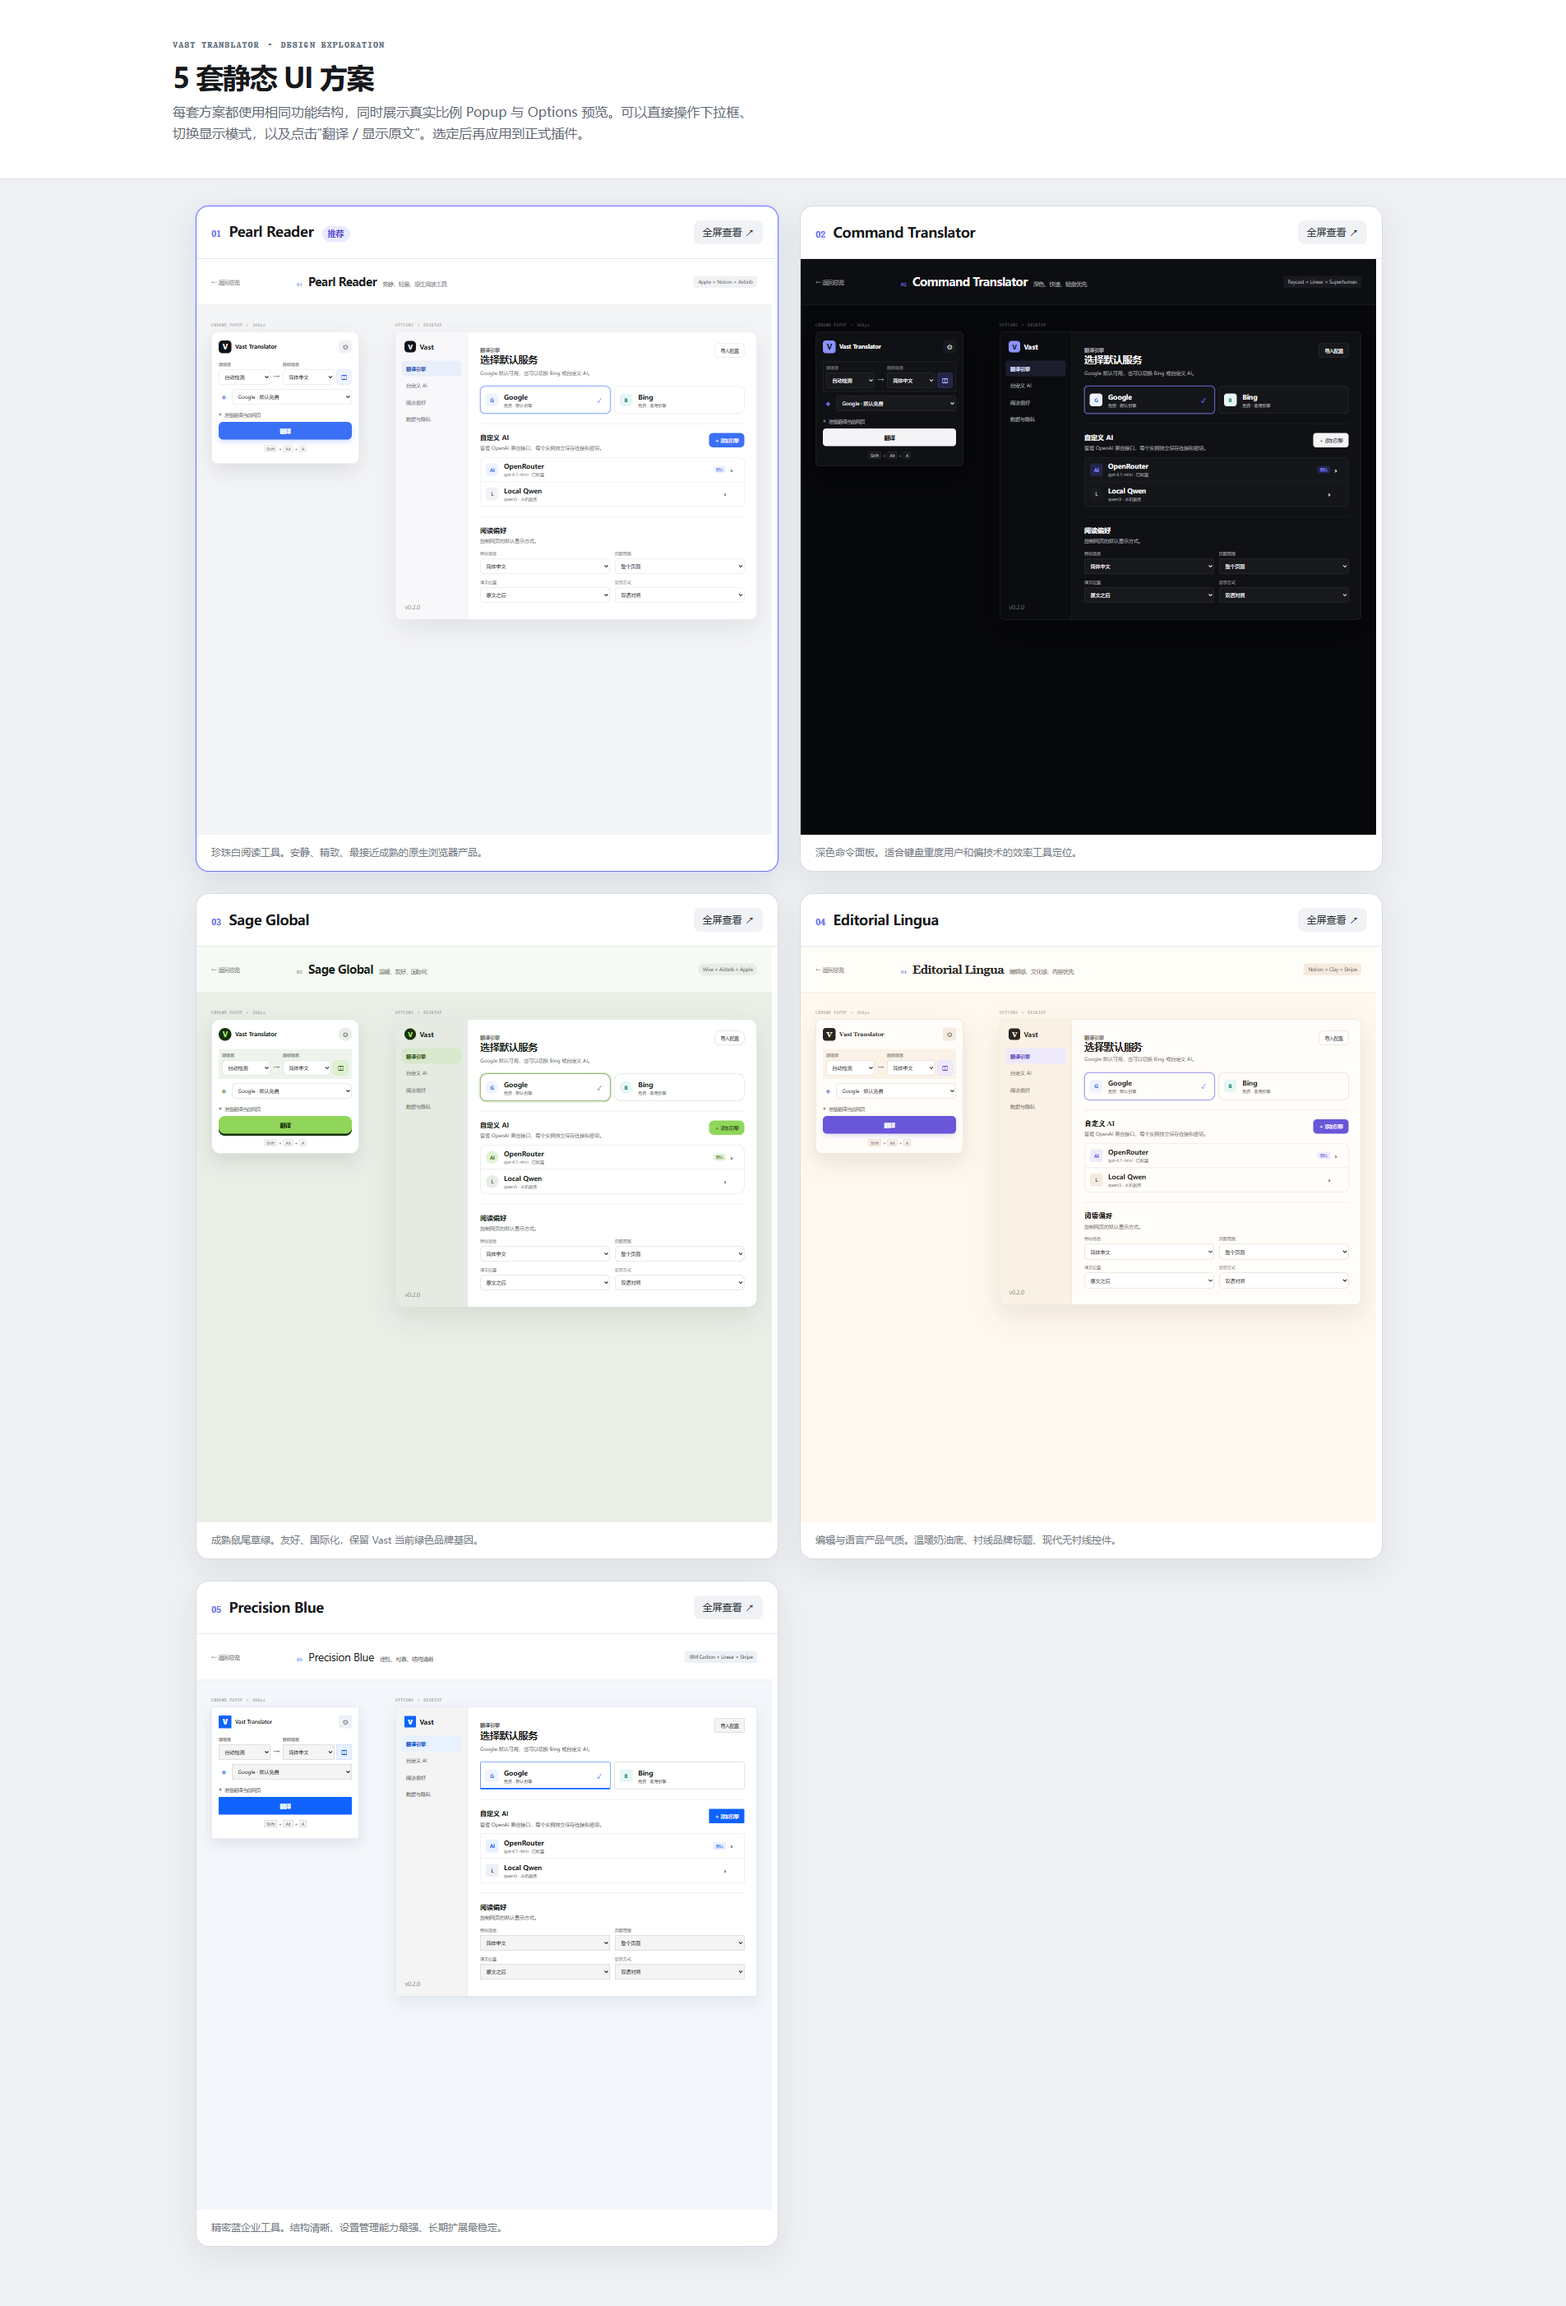
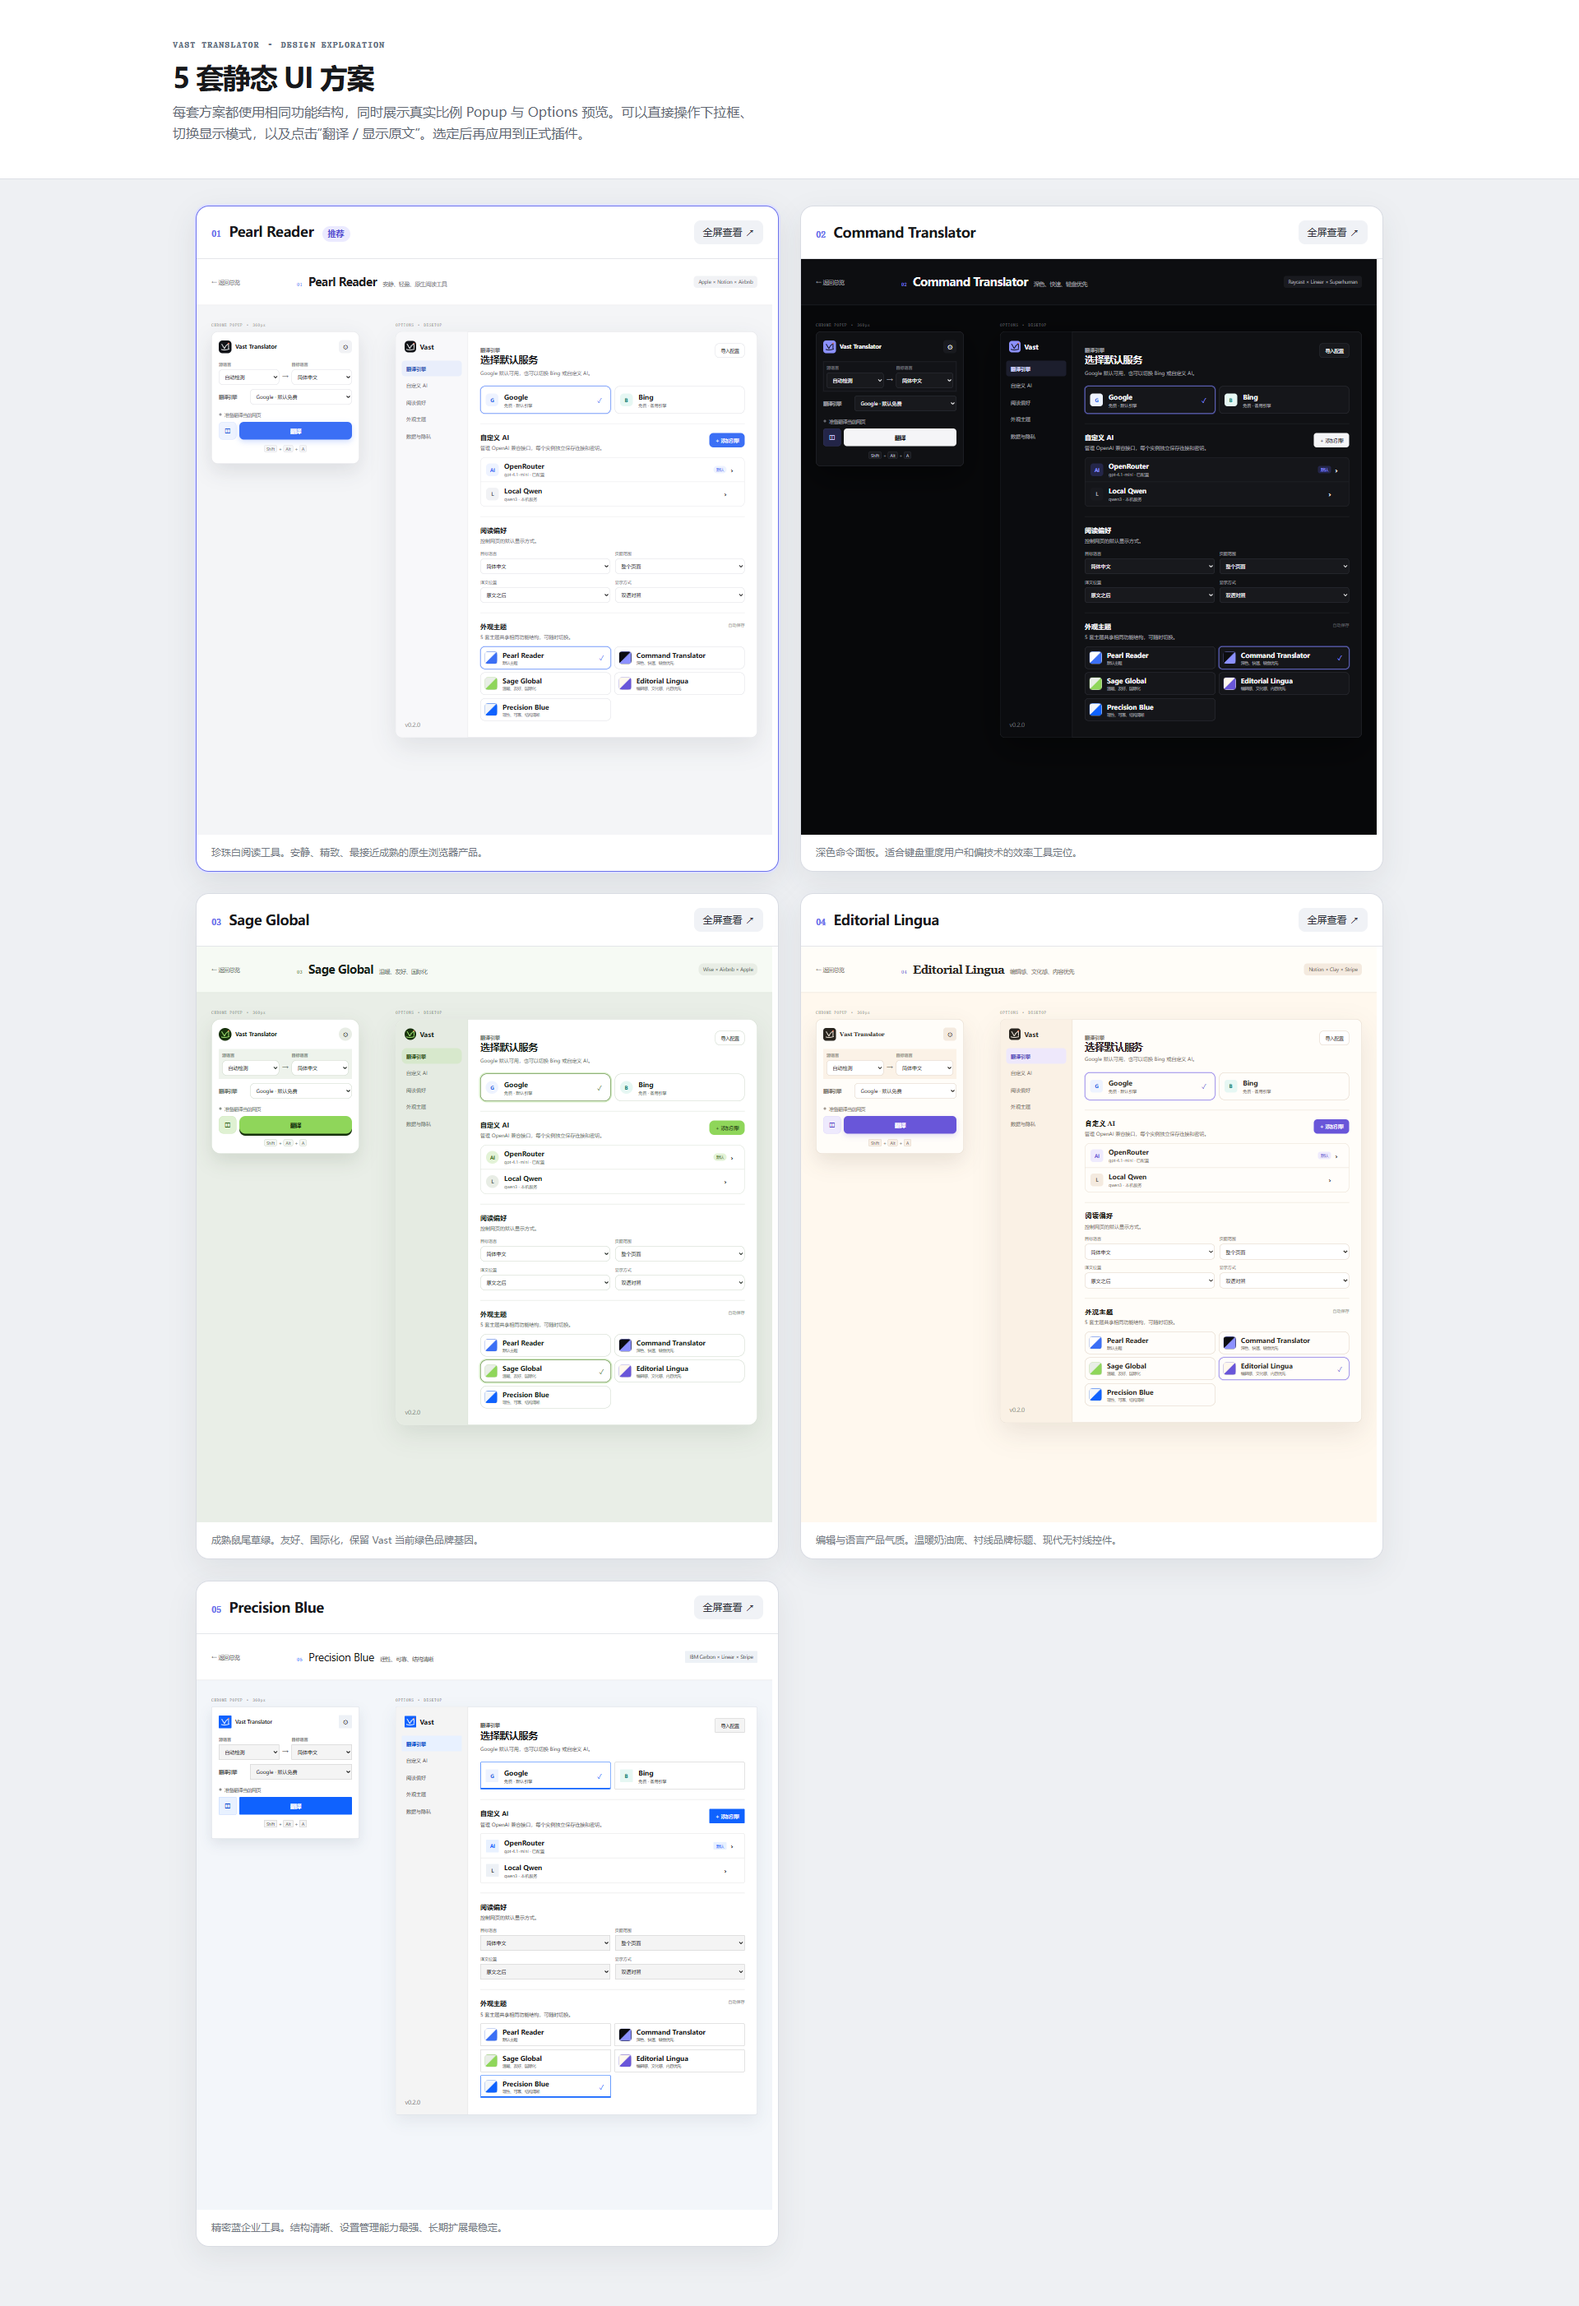
docs: refine theme previews with VastNext branding

diff --git a/design-previews/shared.css b/design-previews/shared.css
@@ -20,12 +20,15 @@ button:focus-visible, select:focus-visible, a:focus-visible { outline: 3px solid
 .translator-popup { width: 360px; min-height: 322px; padding: 17px; border: 1px solid var(--panel-line); border-radius: var(--radius-panel); background: var(--panel); box-shadow: var(--panel-shadow); }
 .popup-head { display: flex; align-items: center; justify-content: space-between; min-height: 38px; margin-bottom: 17px; }
 .brand, .options-brand { display: flex; align-items: center; gap: 9px; }
-.brand-icon { display: grid; place-items: center; width: 31px; height: 31px; border-radius: var(--radius-icon); background: var(--brand-icon-bg); color: var(--brand-icon-fg); font: 800 17px/1 var(--font-title); box-shadow: var(--icon-shadow); }
+.brand-icon { display: grid; place-items: center; width: 31px; height: 31px; border-radius: var(--radius-icon); background: var(--brand-icon-bg); color: var(--brand-icon-fg); box-shadow: var(--icon-shadow); }
+.vastnext-logo { width: 25px; height: 25px; overflow: visible; }
+.logo-horizon,.logo-route { stroke: currentColor; stroke-width: 3.5; stroke-linecap: round; stroke-linejoin: round; }
+.logo-beacon { fill: #f06f52; }
 .brand-name { font: var(--brand-weight) 14px/1 var(--font-title); letter-spacing: -.015em; }
 .icon-button { display: grid; place-items: center; width: 32px; height: 32px; border: 0; border-radius: var(--radius-icon); background: var(--soft); color: var(--ink); }
 .icon-button:hover { background: var(--hover); }
 
-.language-control { display: grid; grid-template-columns: minmax(0,1fr) 20px minmax(0,1fr) 38px; align-items: end; gap: 5px; padding: var(--control-wrap-padding); border-radius: var(--radius-control-wrap); background: var(--control-wrap); border: var(--control-wrap-border); }
+.language-control { display: grid; grid-template-columns: minmax(0,1fr) 20px minmax(0,1fr); align-items: end; gap: 5px; padding: var(--control-wrap-padding); border-radius: var(--radius-control-wrap); background: var(--control-wrap); border: var(--control-wrap-border); }
 .language-control label { display: grid; gap: 5px; }
 .language-control label > span { color: var(--faint); font-size: 10px; font-weight: 600; }
 select { min-width: 0; width: 100%; height: 38px; padding: 0 28px 0 10px; border: 1px solid var(--input-line); border-radius: var(--radius-input); background: var(--input); color: var(--ink); font-size: 12px; appearance: auto; }
@@ -35,11 +38,13 @@ select { min-width: 0; width: 100%; height: 38px; padding: 0 28px 0 10px; border
 .mode-toggle.translation-only .mode-bilingual { display: none; }
 .mode-toggle.translation-only .mode-translation { display: inline; }
 
-.engine-control { display: grid; grid-template-columns: 25px 1fr; align-items: center; gap: 7px; margin-top: 10px; }
-.engine-symbol { color: var(--accent); text-align: center; font-size: 15px; }
+.engine-control { display: grid; grid-template-columns: 68px 1fr; align-items: center; gap: 8px; margin-top: 10px; }
+.engine-label { color: var(--muted); font-size: 11px; font-weight: 650; }
 .translation-status { display: flex; align-items: center; gap: 7px; min-height: 28px; margin: 10px 1px 4px; color: var(--muted); font-size: 11px; }
 .status-dot { width: 6px; height: 6px; border-radius: 50%; background: var(--faint); }
 .translation-status.done .status-dot { background: var(--success); }
+.primary-actions { display: grid; grid-template-columns: 43px 1fr; gap: 7px; }
+.primary-actions .mode-toggle { width: 43px; height: 43px; }
 .translate-button { width: 100%; height: 43px; border: var(--primary-border); border-radius: var(--radius-button); background: var(--primary); color: var(--on-primary); font-size: 13px; font-weight: 700; box-shadow: var(--button-shadow); }
 .translate-button:hover { background: var(--primary-hover); }
 .translate-button.translated { background: var(--secondary-button); color: var(--ink); box-shadow: none; }
@@ -84,6 +89,19 @@ select { min-width: 0; width: 100%; height: 38px; padding: 0 28px 0 10px; border
 .engine-list-row em { padding: 3px 7px; border-radius: var(--badge-radius); background: var(--accent-soft); color: var(--accent); font-size: 9px; font-style: normal; }
 .preference-grid { display: grid; grid-template-columns: 1fr 1fr; gap: 12px; }
 .preference-grid label { display: grid; gap: 6px; color: var(--muted); font-size: 10px; }
+.theme-saved { color: var(--faint); font-size: 10px; }
+.theme-grid { display: grid; grid-template-columns: 1fr 1fr; gap: 8px; }
+.theme-choice { display: grid; grid-template-columns: 34px 1fr 18px; align-items: center; gap: 9px; min-height: 55px; padding: 9px 10px; border: 1px solid var(--input-line); border-radius: var(--radius-card); background: var(--card); color: var(--ink); text-align: left; }
+.theme-choice.selected { border-color: var(--accent); box-shadow: var(--selected-shadow); }
+.theme-choice > span:nth-child(2) { display: grid; gap: 2px; }
+.theme-choice small { color: var(--muted); font-size: 9px; }
+.theme-choice i { color: var(--accent); font-style: normal; }
+.theme-swatch { width: 31px; height: 31px; border-radius: 8px; border: 1px solid rgba(0,0,0,.08); }
+.swatch-pearl { background: linear-gradient(135deg,#fff 50%,#3b6ff5 50%); }
+.swatch-command { background: linear-gradient(135deg,#0b0c0f 50%,#8c91ff 50%); }
+.swatch-sage { background: linear-gradient(135deg,#e9eee7 50%,#8fd65a 50%); }
+.swatch-editorial { background: linear-gradient(135deg,#fff8ee 50%,#6956d9 50%); }
+.swatch-precision { background: linear-gradient(135deg,#f3f6fa 50%,#0f62fe 50%); }
 
 body[data-theme="pearl"] {
   --font-ui: "Segoe UI Variable", system-ui, sans-serif; --font-title: "Segoe UI Variable", system-ui, sans-serif; --font-mono: ui-monospace, monospace;

diff --git a/design-previews/shared.js b/design-previews/shared.js
@@ -8,6 +8,7 @@ const themes = {
 
 const theme = document.body.dataset.theme;
 const meta = themes[theme];
+const logo = `<svg class="vastnext-logo" viewBox="0 0 48 48" fill="none" aria-hidden="true"><path class="logo-horizon" d="M5 35.5C15 39.5 29 39.5 43 34"/><path class="logo-route" d="M8 11L20.5 32L27 20L40 8V31"/><circle class="logo-beacon" cx="40" cy="8" r="3"/></svg>`;
 
 document.querySelector('#app').innerHTML = `
   <header class="preview-header">
@@ -21,7 +22,7 @@ document.querySelector('#app').innerHTML = `
       <p class="stage-label">CHROME POPUP · 360px</p>
       <article class="translator-popup">
         <header class="popup-head">
-          <div class="brand"><span class="brand-icon">V</span><span class="brand-name">Vast Translator</span></div>
+          <div class="brand"><span class="brand-icon">${logo}</span><span class="brand-name">Vast Translator</span></div>
           <button class="icon-button" aria-label="设置">⚙</button>
         </header>
 
@@ -29,13 +30,12 @@ document.querySelector('#app').innerHTML = `
           <label><span>源语言</span><select><option>自动检测</option><option>English</option><option>简体中文</option></select></label>
           <span class="direction">→</span>
           <label><span>目标语言</span><select><option>简体中文</option><option>English</option><option>日本語</option></select></label>
-          <button class="mode-toggle" aria-label="双语模式" title="切换双语 / 仅译文"><span class="mode-bilingual">◫</span><span class="mode-translation">▣</span></button>
         </div>
 
-        <label class="engine-control"><span class="engine-symbol">◈</span><select><option>Google · 默认免费</option><option>Bing · 备用</option><option>OpenRouter · AI</option></select></label>
+        <label class="engine-control"><span class="engine-label">翻译引擎</span><select><option>Google · 默认免费</option><option>Bing · 备用</option><option>OpenRouter · AI</option></select></label>
 
         <div class="translation-status"><span class="status-dot"></span><span class="status-copy">准备翻译当前网页</span></div>
-        <button class="translate-button">翻译</button>
+        <div class="primary-actions"><button class="mode-toggle" aria-label="双语模式" title="切换双语 / 仅译文"><span class="mode-bilingual">◫</span><span class="mode-translation">▣</span></button><button class="translate-button">翻译</button></div>
         <footer class="popup-footer"><span>Shift</span><b>+</b><span>Alt</span><b>+</b><span>A</span></footer>
       </article>
     </section>
@@ -44,8 +44,8 @@ document.querySelector('#app').innerHTML = `
       <p class="stage-label">OPTIONS · DESKTOP</p>
       <article class="options-shell">
         <aside class="options-nav">
-          <div class="options-brand"><span class="brand-icon">V</span><strong>Vast</strong></div>
-          <nav><button class="active">翻译引擎</button><button>自定义 AI</button><button>阅读偏好</button><button>数据与隐私</button></nav>
+          <div class="options-brand"><span class="brand-icon">${logo}</span><strong>Vast</strong></div>
+          <nav><button class="active">翻译引擎</button><button>自定义 AI</button><button>阅读偏好</button><button>外观主题</button><button>数据与隐私</button></nav>
           <small>v0.2.0</small>
         </aside>
         <div class="options-content">
@@ -73,6 +73,13 @@ document.querySelector('#app').innerHTML = `
               <label><span>显示方式</span><select><option>双语对照</option></select></label>
             </div>
           </section>
+
+          <section class="settings-section theme-section">
+            <div class="section-title"><div><h3>外观主题</h3><p>5 套主题共享相同功能结构，可随时切换。</p></div><span class="theme-saved">自动保存</span></div>
+            <div class="theme-grid">
+              ${Object.entries(themes).map(([key, item]) => `<button class="theme-choice ${key === theme ? 'selected' : ''}" data-preview-theme="${key}"><span class="theme-swatch swatch-${key}"></span><span><strong>${item.name}</strong><small>${key === 'pearl' ? '默认主题' : item.subtitle}</small></span><i>${key === theme ? '✓' : ''}</i></button>`).join('')}
+            </div>
+          </section>
         </div>
       </article>
     </section>
@@ -97,5 +104,14 @@ for (const button of document.querySelectorAll('.engine-choice')) {
   button.addEventListener('click', () => {
     document.querySelector('.engine-choice.selected')?.classList.remove('selected');
     button.classList.add('selected');
+  });
+}
+
+for (const button of document.querySelectorAll('.theme-choice')) {
+  button.addEventListener('click', () => {
+    document.querySelector('.theme-choice.selected')?.classList.remove('selected');
+    button.classList.add('selected');
+    document.querySelectorAll('.theme-choice i').forEach((icon) => { icon.textContent = ''; });
+    button.querySelector('i').textContent = '✓';
   });
 }
